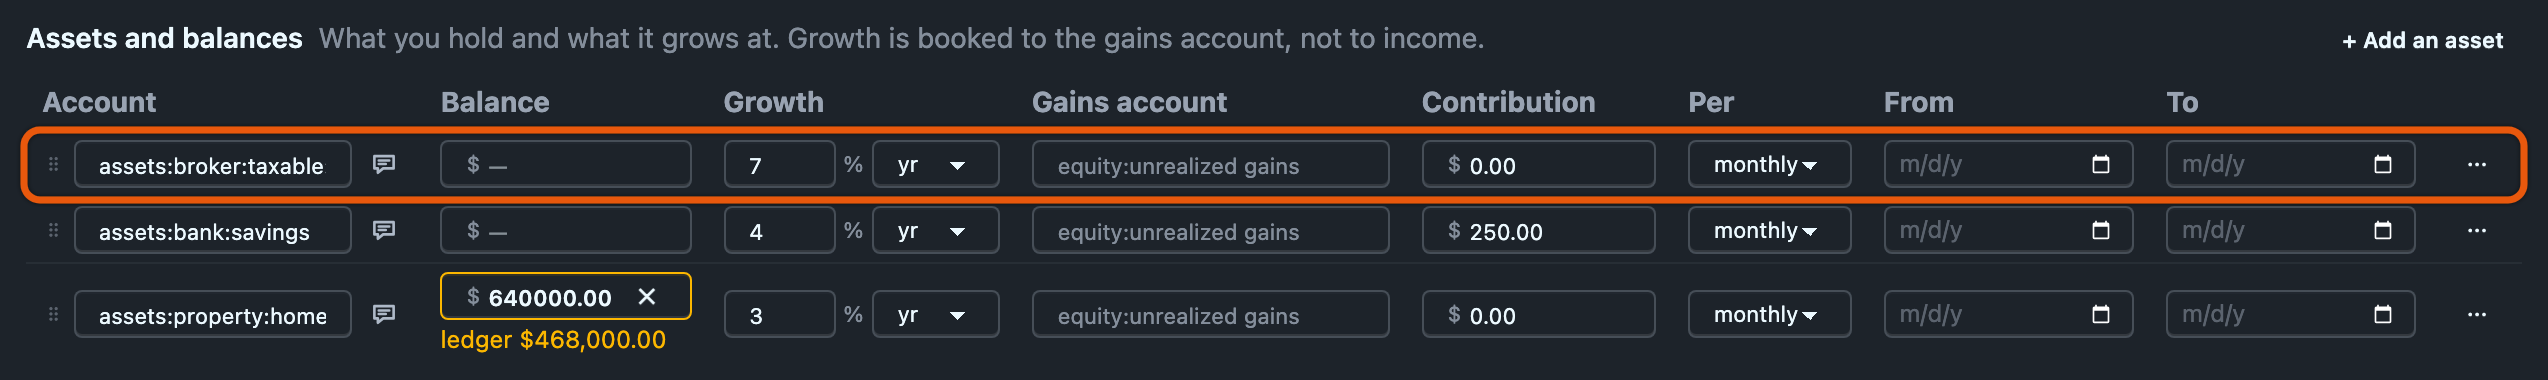
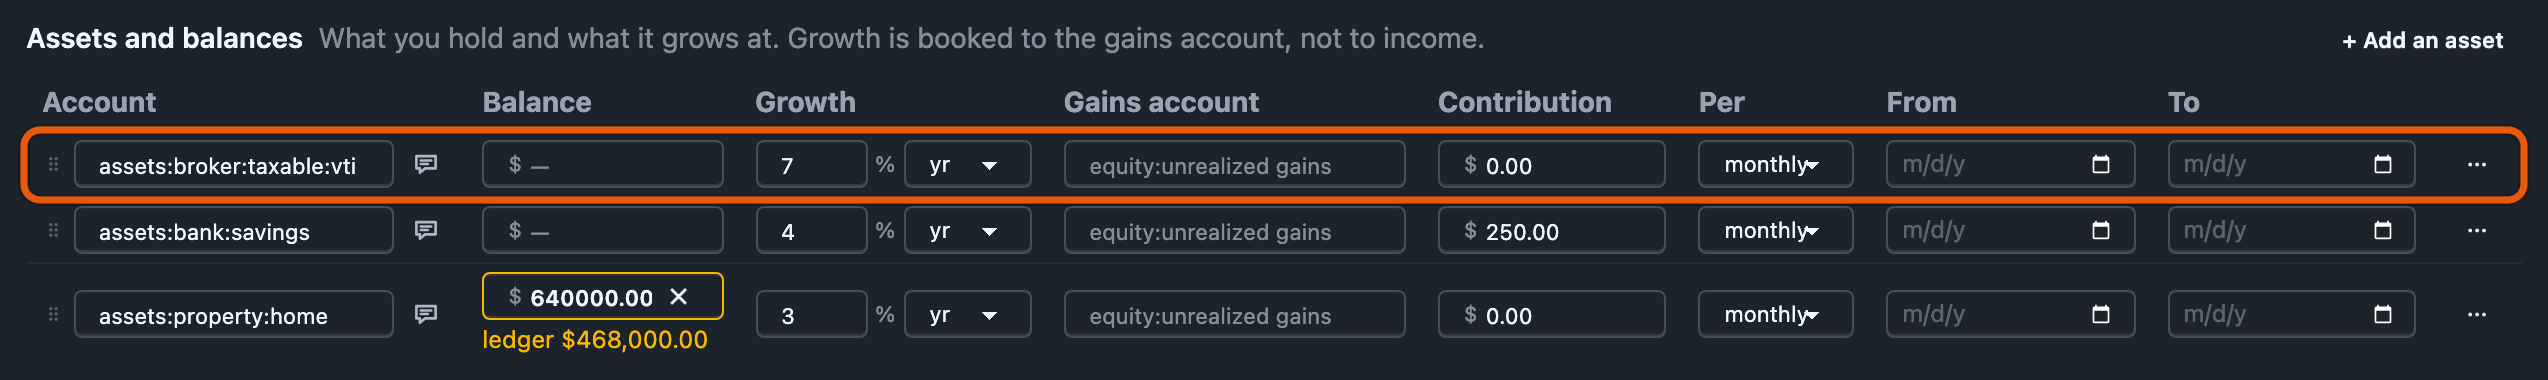
fix(web): last x-axis label no longer clipped; asset Account column width
PeriodLineChart centres each period label on its point and left only 8px
on the right, so the last label ("Jun 202") hung off the edge on every
line chart (runway, holdings). Right padding is now half a label.

The Assets table's Account column was narrowed with the flow table's when
the "estimated" badge went, but it never had a badge: back to w-72 so
names like assets:broker:taxable:vti fit. Screenshots re-shot.

diff --git a/web/src/lib/components/PeriodLineChart.svelte b/web/src/lib/components/PeriodLineChart.svelte
@@ -176,7 +176,10 @@
                 brush={false}
                 {yDomain}
                 yNice={includeZero}
-                padding={{top: 8, right: 8, bottom: 24, left: 56}}
+                // `right` is half a period label ("Jun 2028" at text-xs): the
+                // x-axis centres each label on its point, so the LAST one would
+                // otherwise hang off the edge and be clipped.
+                padding={{top: 8, right: 28, bottom: 24, left: 56}}
                 props={{
                     xAxis: {format: labelOf, ticks: xTicks},
                     yAxis: {format: axisFormat},

diff --git a/web/src/lib/projections/ui/ProjectionsTable.svelte b/web/src/lib/projections/ui/ProjectionsTable.svelte
@@ -965,7 +965,7 @@
                 <table class="table table-xs">
                     <thead>
                         <tr>
-                            <th class="w-60">Account</th>
+                            <th class="w-72">Account</th>
                             <th class="w-40">Balance</th>
                             <th class="w-36">Growth</th>
                             <th class="w-56" title="Where appreciation is booked. Equity by default, so it never reaches net income.">Gains account</th>
